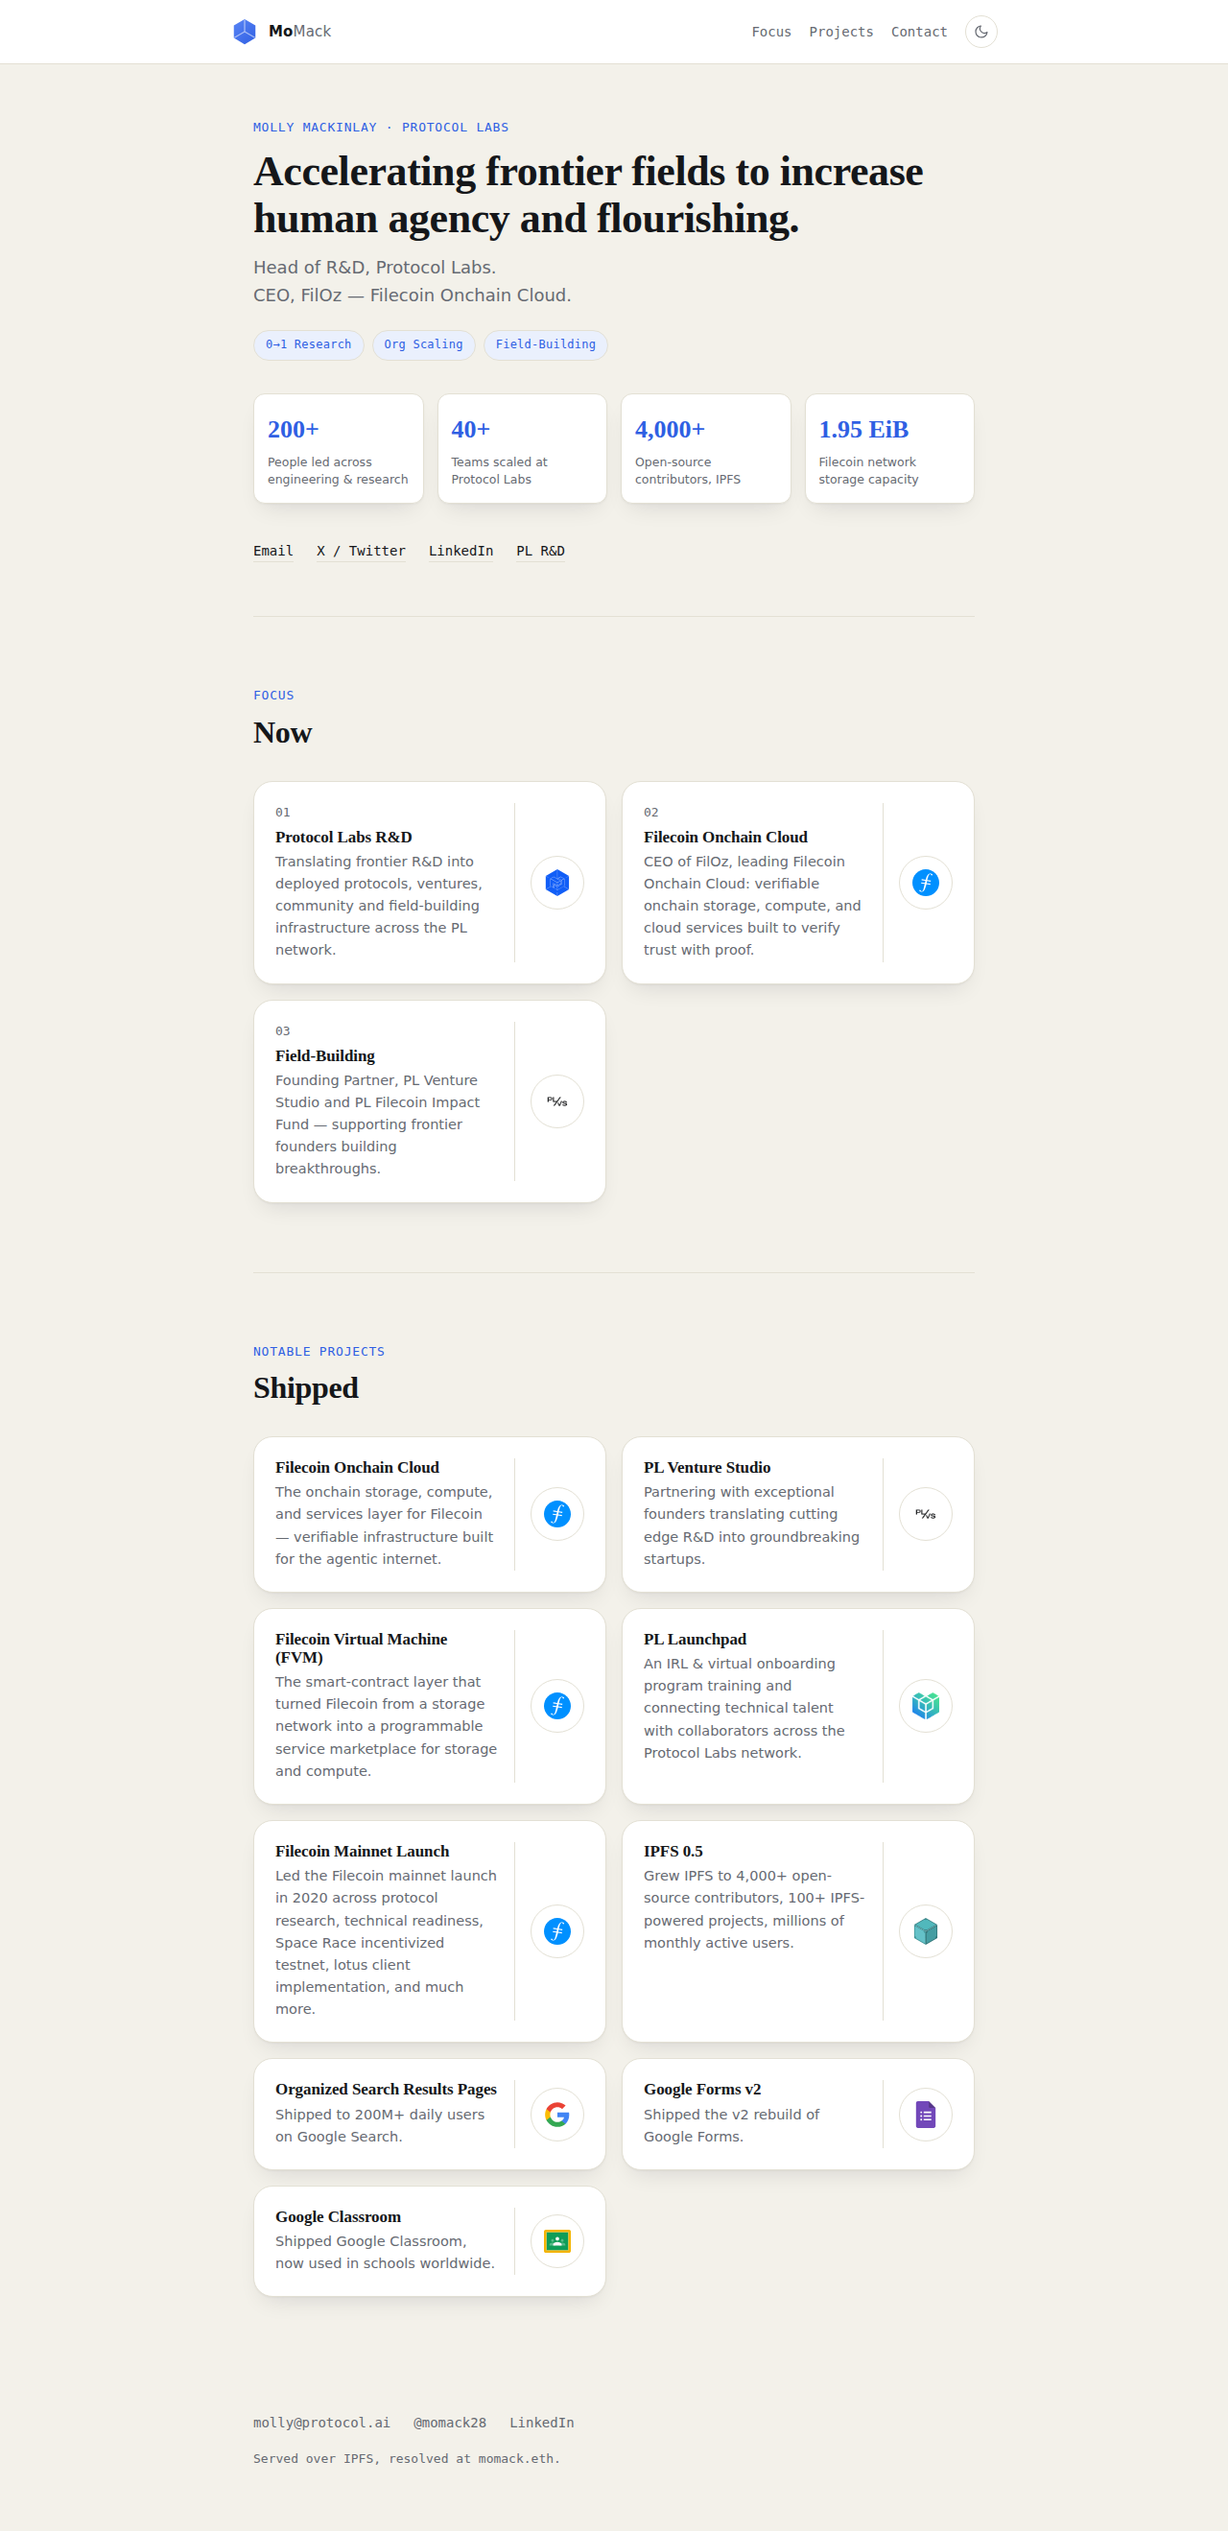
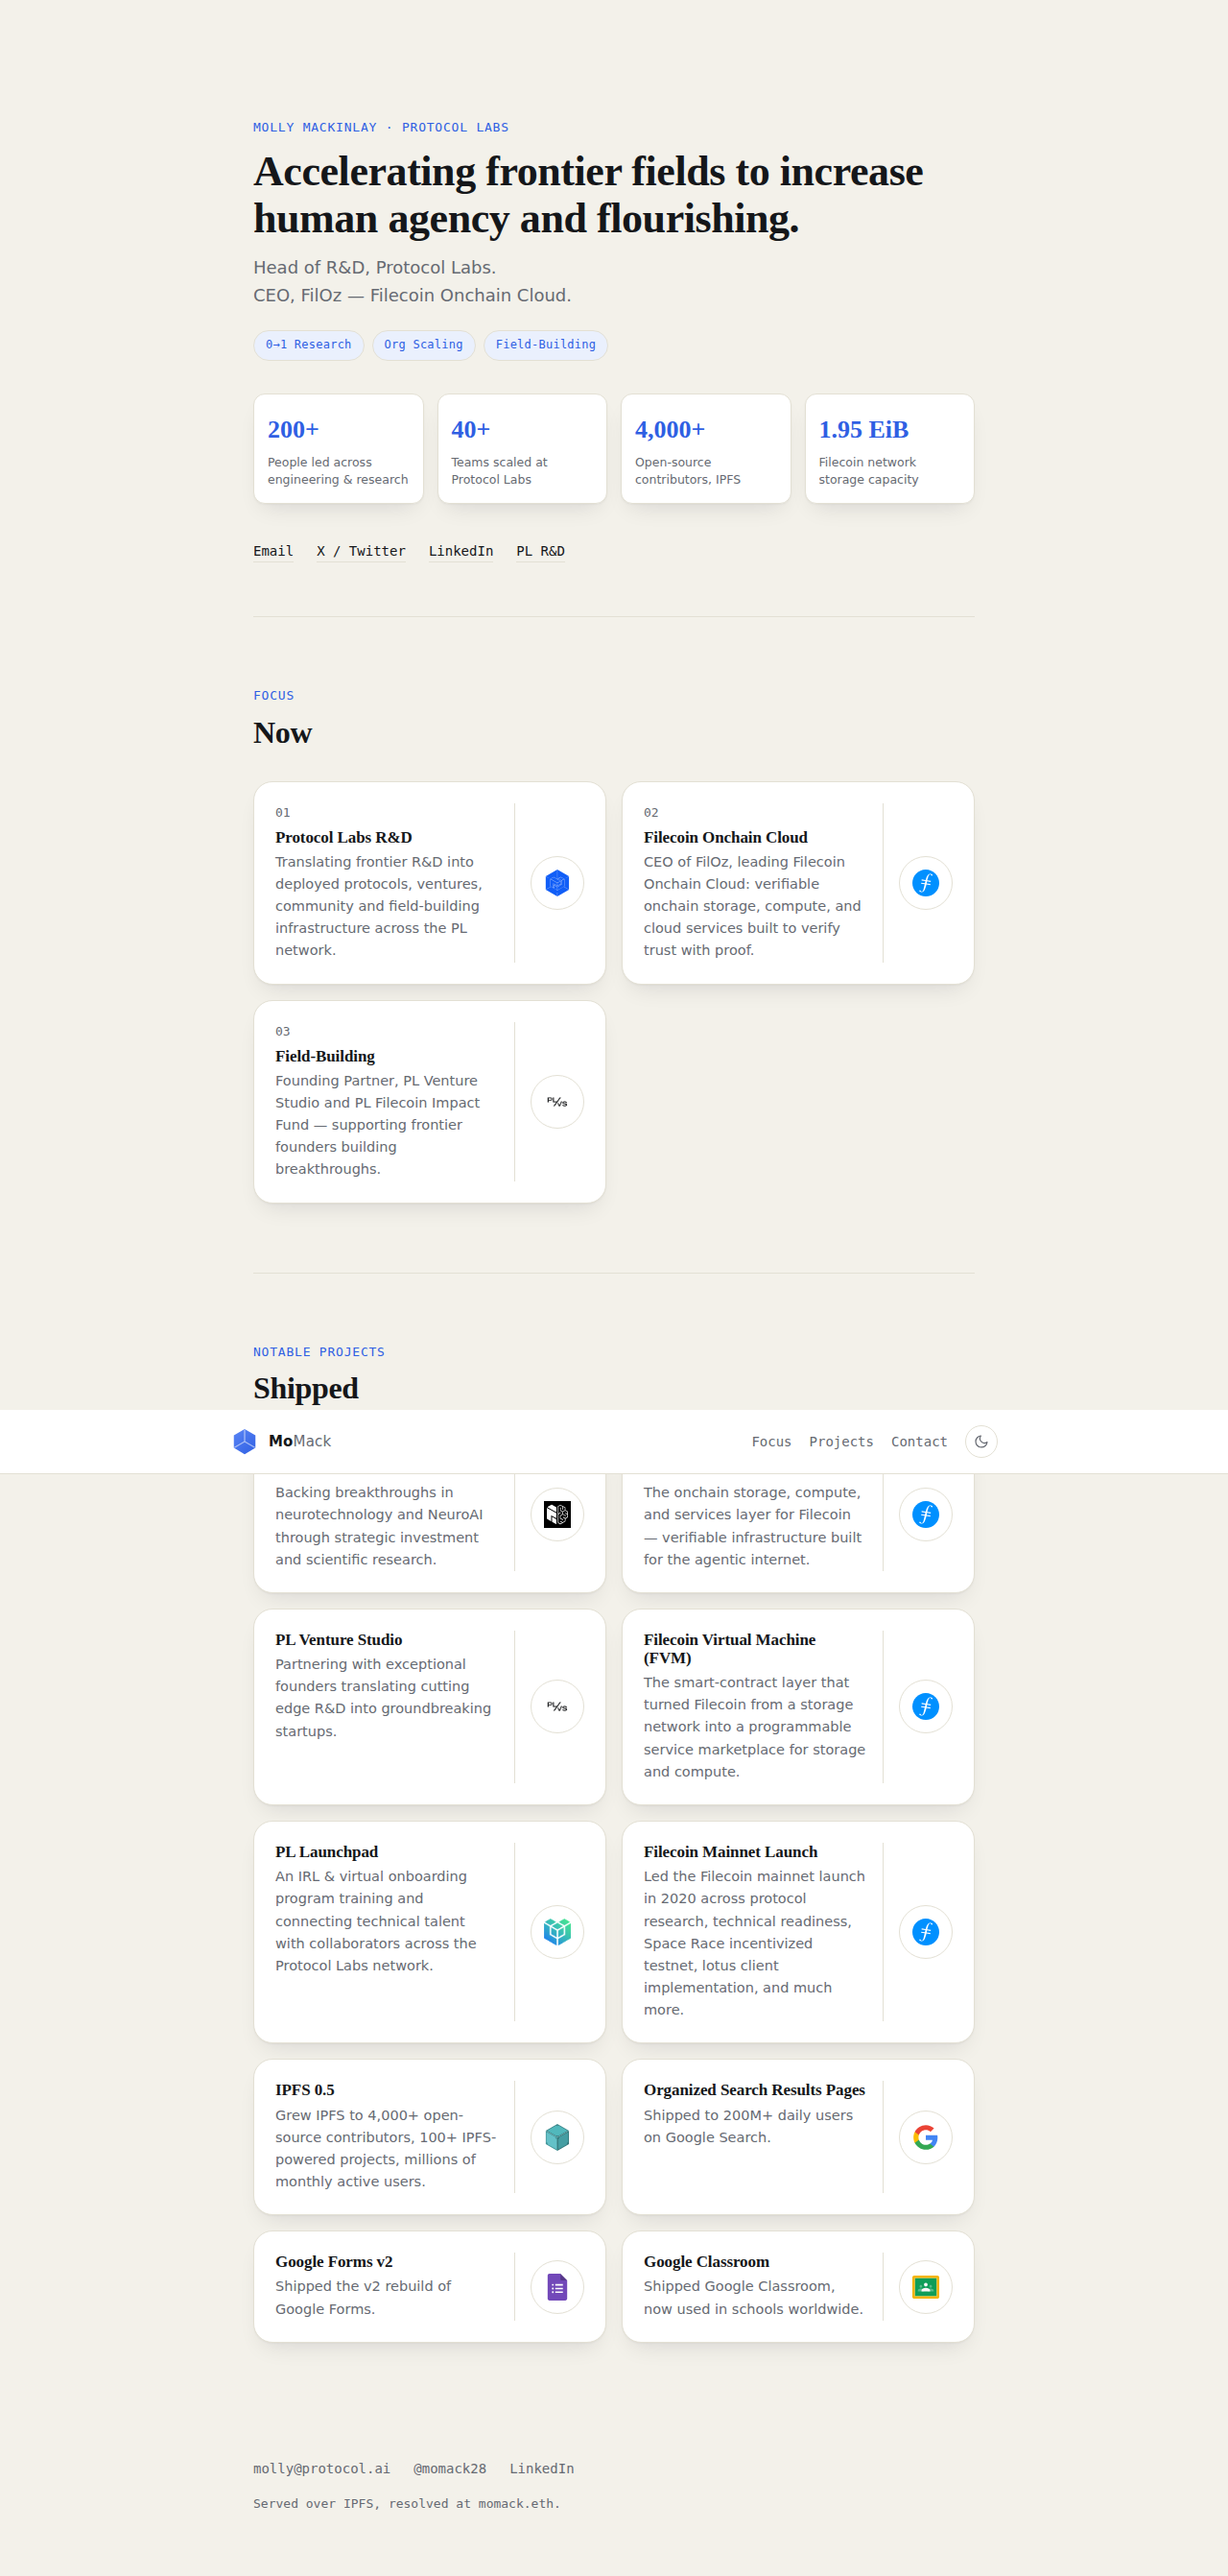
Add PL Neuro as the top Notable Projects card
Links to plneuro.xyz. Description adapted from their own site
("PL Neuro breaks through bottlenecks in neurotechnology and NeuroAI
through strategic investment and scientific research"), written in
the page's established outcome-focused voice. Icon is PL Neuro's
actual favicon mark (a neural/molecular glyph), pulled from
plneuro.xyz/favicon.svg and added as a new sprite symbol alongside
the other project logos -- same pattern, no external hotlink.

Claude-Session: https://claude.ai/code/session_01CDJATq3ovUfTu7hVynbQxm

diff --git a/version3/index.html b/version3/index.html
@@ -94,6 +94,13 @@
       <path fill="#F4B400" d="M539.5,0h-500C17.7,0,0,17.7,0,39.5v421.1C0,482.3,17.7,500,39.5,500h500c21.8,0,39.5-17.7,39.5-39.5V39.5
         C578.9,17.7,561.3,0,539.5,0z M526.3,447.4H52.6V52.6h473.7V447.4z"/>
     </symbol>
+    <symbol id="logo-plneuro" viewBox="0 0 260 260">
+      <rect width="260" height="260" fill="black"/>
+      <path d="M119.977 120.032L119.798 164.754C119.798 165.682 118.802 166.267 118.005 165.803L71.8774 139.135C70.8218 138.53 69.4874 139.297 69.4874 140.527V193.217C69.4874 194.447 68.1728 195.234 67.0973 194.609L29.5937 172.883C28.5979 172.319 27.9805 171.249 27.9805 170.079V67.6451C27.9805 66.4146 29.295 65.6278 30.3705 66.2532L118.344 117.228C119.379 117.793 119.977 118.862 119.977 120.032Z" fill="white"/>
+      <path d="M81.1681 154.015L118.412 175.756C119.396 176.318 119.986 177.381 119.986 178.544V222.287C119.986 223.511 118.688 224.293 117.625 223.671L80.3811 201.93C79.3973 201.348 78.8071 200.305 78.8071 199.142V155.419C78.8071 154.175 80.1056 153.393 81.1681 154.015Z" fill="white"/>
+      <path fill-rule="evenodd" clip-rule="evenodd" d="M120.303 60.6049C120.303 60.2761 120.127 59.9725 119.841 59.8098L76.4403 35.079C75.4406 34.5009 74.2409 34.5009 73.2611 35.0591L35.8105 56.4287C34.7308 57.0467 34.7308 58.5816 35.8105 59.1996L118.934 106.633C119.544 106.981 120.303 106.54 120.303 105.838V60.6049Z" fill="white"/>
+      <path d="M156.374 36.2598C157.465 35.6673 158.771 35.6157 159.906 36.1211L160.146 36.2383L205.45 60.1719C206.759 60.8638 207.578 62.2239 207.579 63.7051V87.1143L230.004 99.9297C231.249 100.641 232.018 101.965 232.018 103.398V153.869C232.018 155.218 231.338 156.476 230.209 157.214L209.212 170.942L207.605 194.252C207.515 195.551 206.798 196.726 205.683 197.398L160.331 224.781C158.999 225.585 157.322 225.543 156.033 224.675L135.537 210.871C134.434 210.129 133.773 208.886 133.773 207.557V52.7481C133.773 51.3784 134.475 50.1037 135.632 49.3711L156.143 36.3946L156.374 36.2598ZM139.935 53.9405V121.779L151.056 114.169C151.084 111.413 153.326 109.189 156.088 109.189C158.868 109.189 161.121 111.441 161.122 114.221C161.122 117 158.868 119.254 156.088 119.254C155.638 119.254 155.202 119.194 154.787 119.083L139.935 129.245V206.403L158.329 218.791L175.781 208.253L164.448 201.394C163.974 201.541 163.47 201.622 162.948 201.622C160.168 201.622 157.916 199.368 157.916 196.589C157.916 193.809 160.168 191.556 162.948 191.556C165.639 191.556 167.837 193.668 167.974 196.325L181.738 204.656L201.535 192.704L203.042 170.833L189.497 162.277C186.721 162.273 184.472 160.022 184.472 157.245C184.472 154.466 186.726 152.212 189.505 152.212C192.285 152.212 194.537 154.466 194.538 157.245C194.538 157.545 194.51 157.839 194.459 158.124L206.208 165.545L225.857 152.697V130.392L212.502 122.813C212.163 122.885 211.81 122.925 211.449 122.925C208.669 122.925 206.416 120.671 206.416 117.892C206.416 115.112 208.669 112.858 211.449 112.858C214.228 112.859 216.481 115.112 216.481 117.892C216.481 117.923 216.479 117.954 216.478 117.984L225.857 123.307V104.655L204.607 92.5127L185.315 104.996V125.151L203.17 136.312C203.87 135.944 204.666 135.734 205.511 135.734C208.291 135.734 210.544 137.988 210.544 140.768C210.544 143.547 208.291 145.801 205.511 145.801C203.152 145.801 201.173 144.178 200.627 141.988L182.587 130.713L160.875 143.896V164.851L177.733 174.894C178.497 174.425 179.397 174.155 180.359 174.155C183.138 174.156 185.392 176.409 185.392 179.189C185.392 181.968 183.138 184.222 180.359 184.222C178.138 184.222 176.253 182.783 175.585 180.786L156.665 169.515C155.455 168.794 154.713 167.489 154.713 166.081V142.677C154.714 141.281 155.442 139.986 156.635 139.262L179.153 125.59V105.201L158.688 94.9688C157.334 94.2919 156.479 92.9081 156.479 91.3946V70.9278C155.395 70.0046 154.706 68.6305 154.706 67.0948C154.706 64.3153 156.959 62.0617 159.739 62.0616C162.518 62.0616 164.772 64.3152 164.772 67.0948C164.772 68.7932 163.93 70.2936 162.641 71.2051V90.0557L182.057 99.7637L201.417 87.2374V65.0098L184.905 56.2862V72.0303C186.284 72.928 187.197 74.4834 187.197 76.252C187.197 79.0315 184.943 81.2852 182.164 81.2852C179.384 81.2851 177.131 79.0315 177.13 76.252C177.13 74.6657 177.865 73.2517 179.012 72.3292H178.743V53.0303L158.376 42.2715L139.935 53.9405Z" fill="white"/>
+    </symbol>
   </svg>
 
   <header class="topbar">
@@ -223,6 +230,19 @@
       <p class="eyebrow">Notable Projects</p>
       <h2>Shipped</h2>
       <div class="profiles">
+        <a class="profile" href="https://plneuro.xyz" target="_blank" rel="noopener">
+          <div class="profile-body">
+            <h3>PL Neuro</h3>
+            <p>
+              Backing breakthroughs in neurotechnology and NeuroAI through
+              strategic investment and scientific research.
+            </p>
+          </div>
+          <div class="profile-divider"></div>
+          <div class="profile-icon">
+            <svg class="icon-svg"><use href="#logo-plneuro"></use></svg>
+          </div>
+        </a>
         <a class="profile" href="https://www.filecoin.io/blog/filecoin-onchain-cloud-is-live-on-mainnet" target="_blank" rel="noopener">
           <div class="profile-body">
             <h3>Filecoin Onchain Cloud</h3>
